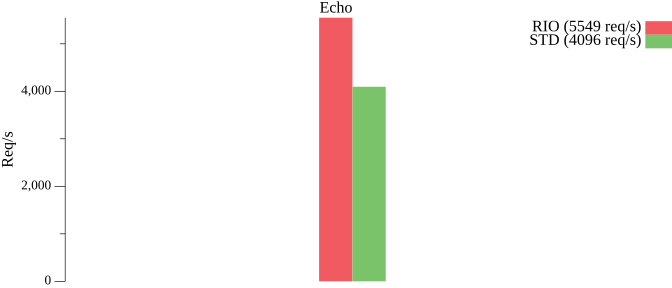
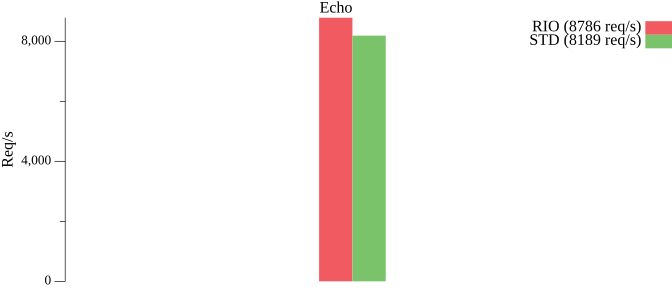
mod

diff --git a/README.md b/README.md
@@ -9,7 +9,7 @@ Linux 内核版本需要`>= 5.14`，推荐版本为`>= 6.1`。
 ## 性能
 测试环境：Win11（WSL2）、内核（6.6.36.6-microsoft-standard-WSL2）、CPU（13600K）。
 
-基于默认参数的测试，RIO 相比 STD（标准库）约快30%，详见 [Benchmark](https://github.com/brickingsoft/rio_examples/tree/main/benchmark) 。
+基于默认参数的测试，RIO 相比 STD（标准库）约快10%，详见 [Benchmark](https://github.com/brickingsoft/rio_examples/tree/main/benchmark) 。
 
 注意：CurveWaitTransmission 在不同环境下的性能体现是不同的，需按需调整来发挥出高效的性能。 
 
